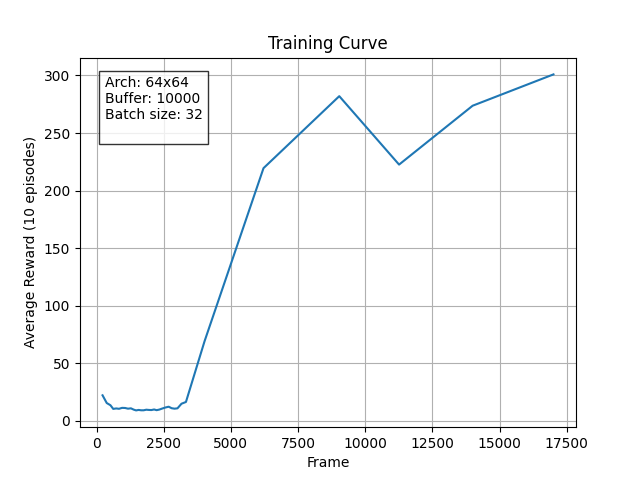
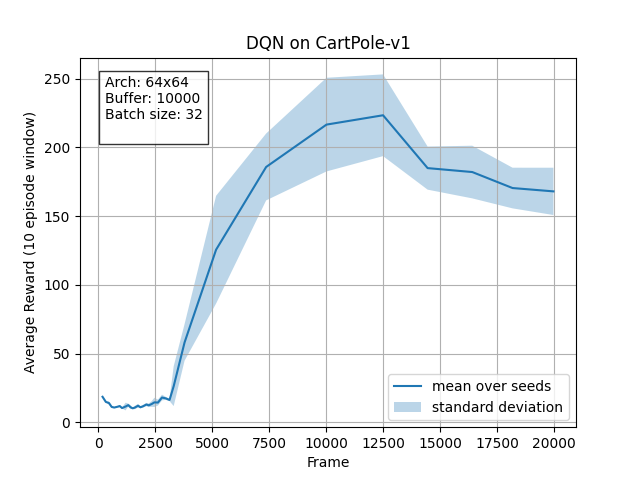
modify level 1

diff --git a/rl_exercises/week_4/dqn.py b/rl_exercises/week_4/dqn.py
@@ -13,6 +13,7 @@ import numpy as np
 import torch
 import torch.nn as nn
 import torch.optim as optim
+from numpy import floating
 from omegaconf import DictConfig
 from rl_exercises.agent import AbstractAgent
 from rl_exercises.week_4.buffers import ReplayBuffer
@@ -255,7 +256,9 @@ class DQNAgent(AbstractAgent):
         self.total_steps += 1
         return float(loss.item())
 
-    def train(self, num_frames: int, eval_interval: int = 1000) -> None:
+    def train(
+        self, num_frames: int, eval_interval: int = 1000
+    ) -> list[tuple[int, floating[Any]]]:
         """
         Run a training loop for a fixed number of frames.
 
@@ -299,51 +302,80 @@ class DQNAgent(AbstractAgent):
 
         print("Training complete.")
 
-        # plotting
-        if len(rewards_avg) > 0:
-            os.makedirs("plots", exist_ok=True)
-            layers = [m for m in self.q.net if isinstance(m, nn.Linear)]
-            hidden_sizes = [layer.out_features for layer in layers[0:-1]]
-
-            arch_str = f"{'x'.join(str(h) for h in hidden_sizes)}"
-            buf = f"buf{self.buffer.capacity // 1000}k"
-            bs = f"bs{self.batch_size}"
-            filename = f"arch{arch_str}_{buf}_{bs}.png"
-            filepath = os.path.join("plots", filename)
-
-            frames, rewards = zip(*rewards_avg)
-            plt.plot(frames, rewards)
-            info_text = (
-                f"Arch: {arch_str}\n"
-                f"Buffer: {self.buffer.capacity}\n"
-                f"Batch size: {self.batch_size}\n"
-            )
-            plt.xlabel("Frame")
-            plt.ylabel("Average Reward (10 episodes)")
-            plt.title("Training Curve")
-            plt.grid(True)
-            plt.text(
-                0.05,
-                0.95,
-                info_text,
-                transform=plt.gca().transAxes,
-                fontsize=10,
-                verticalalignment="top",
-                bbox=dict(facecolor="white", alpha=0.8),
-            )
-            plt.savefig(filepath)
-            plt.close()
+        return rewards_avg
 
 
 @hydra.main(config_path="../configs/agent/", config_name="dqn", version_base="1.1")
 def main(cfg: DictConfig):
-    # 1) build env
-    env = gym.make(cfg.env.name)
-    set_seed(env, cfg.seed)
+    all_curves = []
+    arch_str = None
+    buf_str = None
+    bs_str = None
 
-    # 3)instantiate & train the agent
-    agent = DQNAgent(env, **cfg.agent)
-    agent.train(cfg.train.num_frames, cfg.train.eval_interval)
+    for seed in cfg.seed:
+        print(f"\n RUN seed={seed}")
+        env = gym.make(cfg.env.name)
+        set_seed(env, seed)
+
+        agent = DQNAgent(env, **cfg.agent)
+
+        if arch_str is None:
+            layers = [m for m in agent.q.net if isinstance(m, nn.Linear)]
+            hidden_sizes = [layer.out_features for layer in layers[:-1]]
+            arch_str = "x".join(str(h) for h in hidden_sizes)
+            buf_str = f"buf{agent.buffer.capacity // 1000}k"
+            bs_str = f"bs{agent.batch_size}"
+
+        curve = agent.train(cfg.train.num_frames, cfg.train.eval_interval)
+        all_curves.append(curve)
+
+    min_len = min(len(curve) for curve in all_curves)
+    frames = [pt[0] for pt in all_curves[0][:min_len]]
+
+    # compute mean and standard deviation
+    means = []
+    stds = []
+    for i in range(min_len):
+        vals = [curve[i][1] for curve in all_curves]
+        means.append(np.mean(vals))
+        stds.append(np.std(vals))
+
+    # plots
+    os.makedirs("../../../plots", exist_ok=True)
+    plt.plot(frames, means, label="mean over seeds")
+    plt.fill_between(
+        frames,
+        np.array(means) - np.array(stds),
+        np.array(means) + np.array(stds),
+        alpha=0.3,
+        label="standard deviation",
+    )
+    plt.xlabel("Frame")
+    plt.ylabel("Average Reward (10 episode window)")
+    plt.title(f"DQN on {cfg.env.name}")
+    plt.legend()
+    plt.grid(True)
+
+    info_text = (
+        f"Arch: {arch_str}\n"
+        f"Buffer: {agent.buffer.capacity}\n"
+        f"Batch size: {agent.batch_size}\n"
+    )
+    plt.text(
+        0.05,
+        0.95,
+        info_text,
+        transform=plt.gca().transAxes,
+        fontsize=10,
+        verticalalignment="top",
+        bbox=dict(facecolor="white", alpha=0.8),
+    )
+
+    filename = f"arch{arch_str}_{buf_str}_{bs_str}.png"
+    filepath = os.path.join("../../../plots", filename)
+    plt.savefig(filepath)
+    plt.show()
+    plt.close()
 
 
 if __name__ == "__main__":
